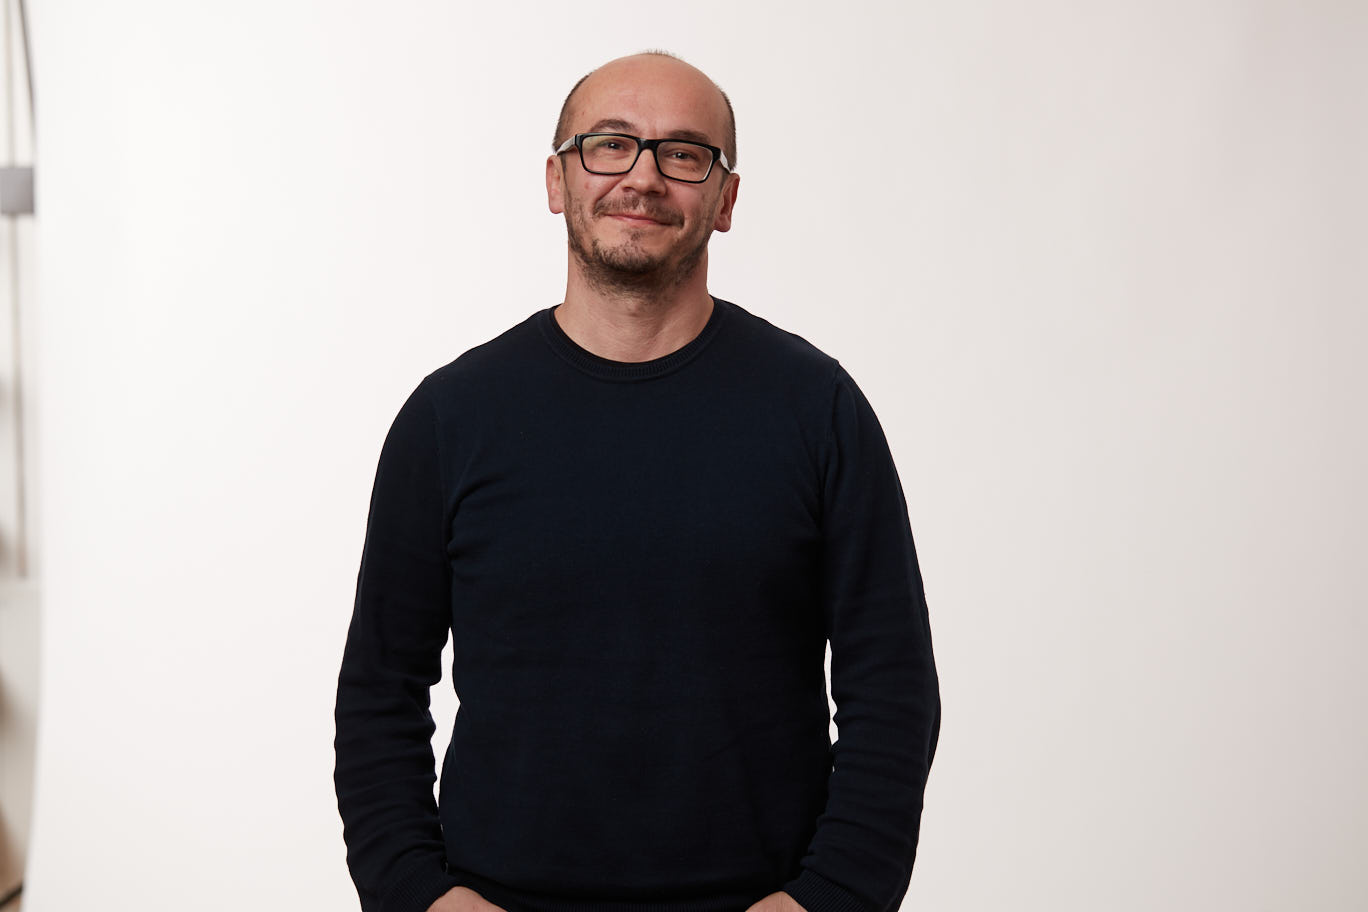
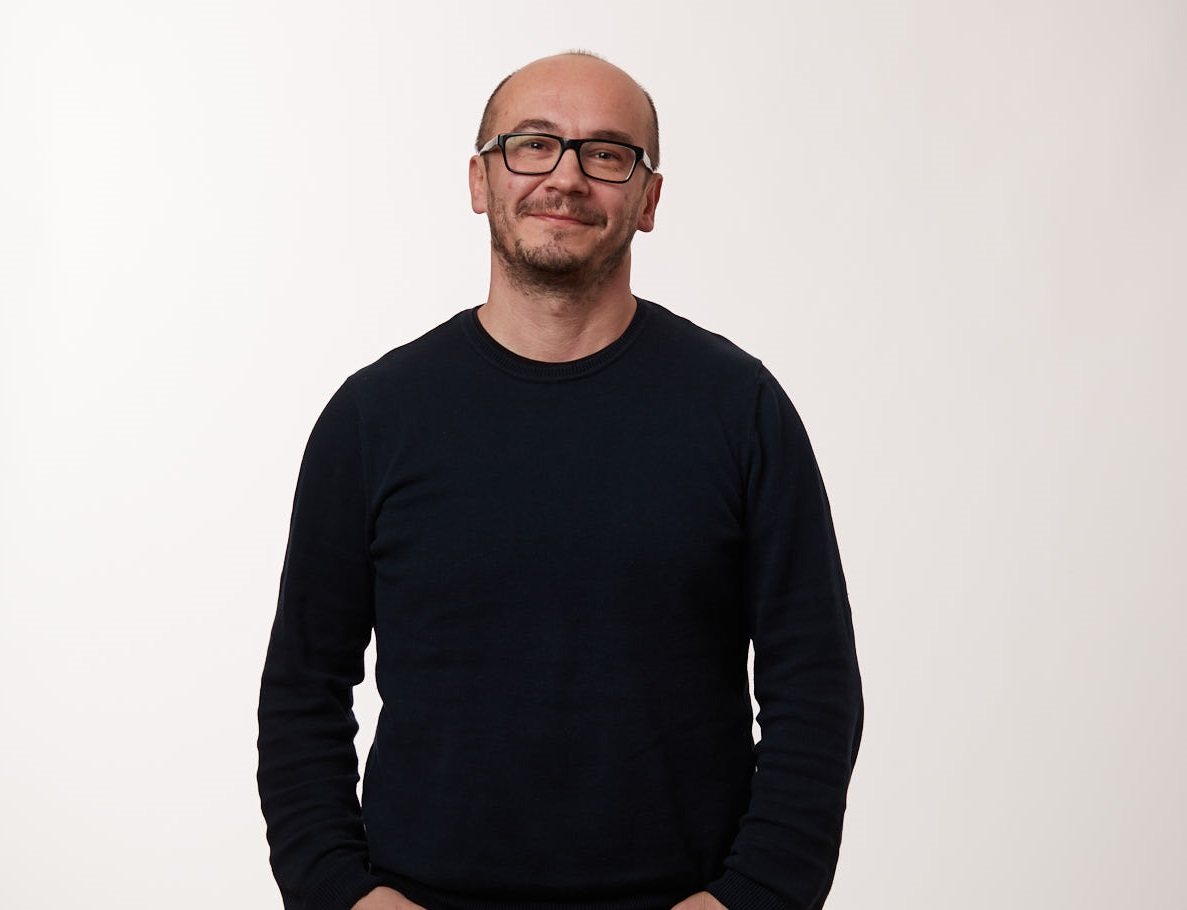
first commit

diff --git a/_layouts/home.html b/_layouts/home.html
@@ -9,7 +9,7 @@ layout: default
 
 
  
-  <img src="JU_STAFF_191211-20053.jpg" width="300" height="250" />
+  <img src="JU_STAFF_191211-20053.jpg" width="180" height="150" />
  
 
   {{ content }}
